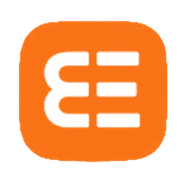
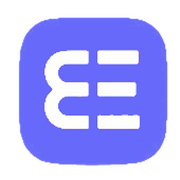
[200~feat: rebrand primary color from Orange to Indigo (#6366F1)
- Update brand tokens in theme.ts: primary #6366F1, dark #4F46E5, light #818CF8
- Update hover box-shadows and outlined button hover background to indigo rgba
- Update Hero.tsx swiper active pagination bullet to #6366F1
- Update theme-color meta in index.html and site.webmanifest to #6366F1
- Recolor logo PNGs (1x, 2x) and SVG to Indigo with transparent backgrounds preserved
- Regenerate full favicon set with Indigo: ico, 16, 32, 180, 192, 512, mstile-150
- Sync updated logo and SVG to event-explorer-assets folder~

diff --git a/src/theme.ts b/src/theme.ts
@@ -2,9 +2,9 @@ import { createTheme } from "@mui/material";
 
 // ── Brand Tokens ──
 const brand = {
-  orange:    "#F97316",  // Classic Orange — primary accent
-  orangeDark:"#EA580C",  // Pressed / hover state
-  orangeLight:"#FB923C", // Lighter tint for highlights
+  orange:    "#6366F1",  // Indigo — primary accent
+  orangeDark:"#4F46E5",  // Pressed / hover state
+  orangeLight:"#818CF8", // Lighter tint for highlights
 
   bgDefault: "#0D1117",  // Deep black background
   bgSurface: "#161B22",  // Surface / panel
@@ -59,7 +59,7 @@ const darkTheme = createTheme({
           boxShadow: "none",
           "&:hover": {
             backgroundColor: brand.orangeDark,
-            boxShadow: "0 2px 8px rgba(249,115,22,0.3)",
+            boxShadow: "0 2px 8px rgba(99,102,241,0.3)",
           },
         },
         outlined: {
@@ -67,7 +67,7 @@ const darkTheme = createTheme({
           color: brand.textPrimary,
           "&:hover": {
             borderColor: brand.orange,
-            backgroundColor: "rgba(249,115,22,0.08)",
+            backgroundColor: "rgba(99,102,241,0.08)",
           },
         },
       },

diff --git a/index.html b/index.html
@@ -5,7 +5,7 @@
     <meta name="viewport" content="width=device-width, initial-scale=1.0, viewport-fit=cover" />
     <title>Event Explorer</title>
     <meta name="description" content="Simple and effective event searching. Discover concerts, sports, theatre, and more near you." />
-    <meta name="theme-color" content="#F97316" />
+    <meta name="theme-color" content="#6366F1" />
 
     <!-- Favicons -->
     <link rel="icon" type="image/x-icon" href="/event-explorer/favicon.ico" />

diff --git a/src/components/Hero.tsx b/src/components/Hero.tsx
@@ -32,7 +32,7 @@ const Hero = ({ events }: HeroProps) => {
         },
         // Active bullet expands horizontally and uses brand orange
         "& .swiper-pagination-bullet-active": {
-          backgroundColor: "#F97316",
+          backgroundColor: "#6366F1",
           width: 22,
           borderRadius: 4,
         },
